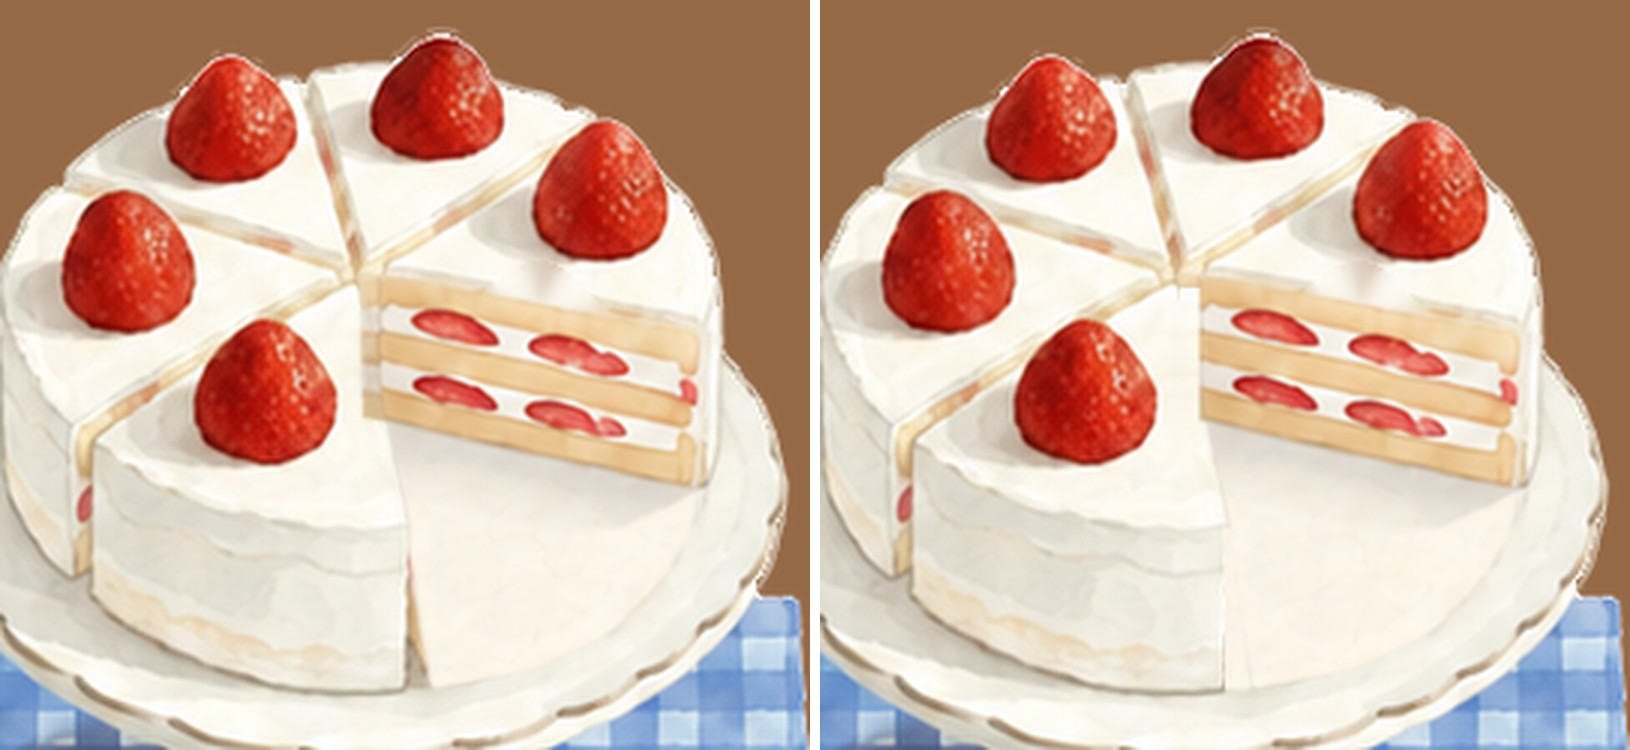
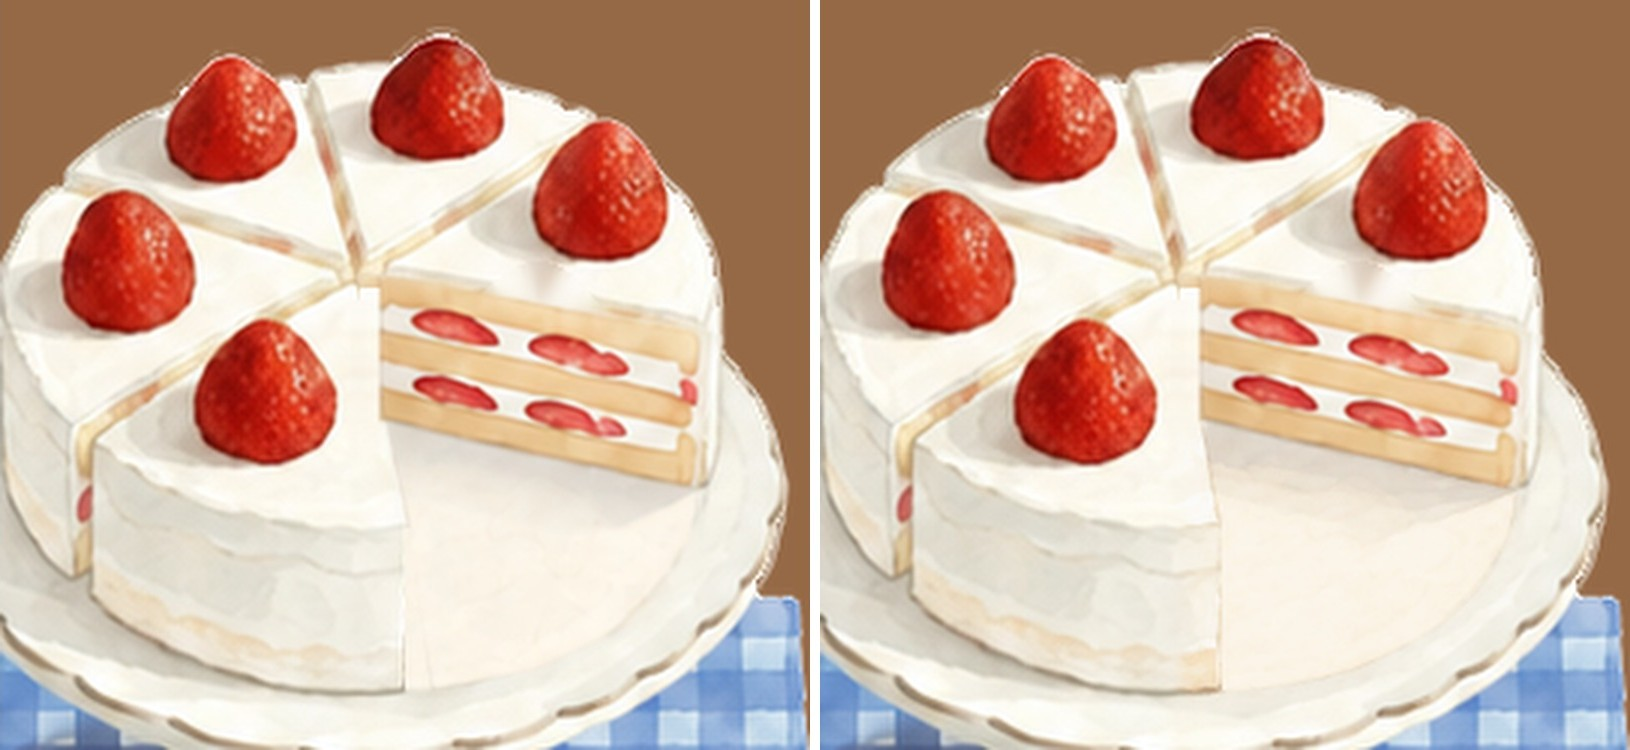
Shop buy panel on paper (owner's pick 3: cream card with tape, no lines, no title); serve receipt restyled (zigzag ends, dashed lines, no title); cake frame 2 repaired with ChatGPT's repaint of the empty space; report

diff --git a/Docs/tools/report_page/index.html b/Docs/tools/report_page/index.html
@@ -74,8 +74,7 @@ h3 small{font-weight:600;color:var(--soft);font-size:13px;margin-left:6px}
 <h2 id="next"><span class="n">1</span>Next</h2>
 <div class="grid">
 <div class="who p1"><h3>You</h3>
-<p><b>Test build 2026.11.19 (1) is in TestFlight.</b> After it came: the glass shop panel with tab design A, the new font, the cake fix, and the last Daily Treats change (approved). Say "build" for (2).</p>
-<p><b>Current:</b> pick a paper for the shop's buy panel.</p>
+<p><b>Test build 2026.11.19 (1) is in TestFlight.</b> After it came: the glass shop panel with tab design A, the new font, the paper buy panel, the new receipt, the cake repair, and the last Daily Treats change (approved). Say "build" for (2).</p>
 <p><b>Q&amp;A:</b> the journal's milestones.</p>
 <p><b>MVP:</b> pick a mixer (three like your photo, cuter).</p>
 </div>
@@ -139,22 +138,30 @@ h3 small{font-weight:600;color:var(--soft);font-size:13px;margin-left:6px}
 </div>
 
 <div class="card">
-<p style="margin-top:0"><b>The shop's buy panel on paper: four proposals.</b> Mock-ups on the real shop screen.</p>
-<figure><img src="shop_popup_paper.jpg" alt="Five versions of the shop's buy panel for Grandma. Now: the tall wooden board with white writing. 1: a brown kraft price tag with cut corners, a stitched edge and a red and white twine through its hole. 2: a white till receipt with zigzag ends, the cafe's name on top, dashed lines and a small barcode. 3: a cream recipe card with a red line and blue ruled lines, held by two strips of tape. 4: the Daily Treats card: cream paper with a mint checked band and a dotted line. Each shows the cookie, the name, the price in blue ink, the description, and the two cookie buttons"><figcaption>Left: today's wooden board. Then the four papers. The writing is brown ink in your new font; the price stays blue.</figcaption></figure>
+<p style="margin-top:0"><b>The shop's buy panel: your paper 3.</b> After build (1).</p>
+<figure><img src="buy_paper.jpg" alt="The shop's buy panel four times as a cream paper card held by two strips of tape, no lines and no title: Grandma, 380, She tips double; Extra cup with a two-line description; the red message Not enough points when the coins are short; Remove ads with its two sentences. Brown ink in the new font, the price in blue, the two cookie buttons at the bottom"><figcaption>Grandma; a two-line description; too few coins; Remove ads.</figcaption></figure>
 <ul>
-<li><b>1, price tag:</b> kraft paper on baker's twine, a stitched edge. The most "shop".</li>
-<li><b>2, receipt:</b> like the day's receipt you already have: zigzag ends, dashed lines.</li>
-<li><b>3, recipe card:</b> ruled card held by tape. The red word on top would be the kind of thing (food, help, kitchen, decor).</li>
-<li><b>4, mint card:</b> the same paper as Daily Treats.</li>
-<li>All four are shorter than the wooden board, so more of the shop stays in view.</li>
-<li>My pick: <b>1</b>. It says "for sale" by itself and looks different from the receipt and from Daily Treats.</li>
+<li>The cream card with two strips of tape. No title. I took "tables" to mean the ruled lines and removed them; tick below if you meant the tape.</li>
+<li>Brown ink, the price in blue ink; a little shorter than the wooden board was.</li>
 </ul>
 <ul class="checks">
-<li><label><input type="checkbox" data-id="cur.buypaper.1"> 1 Price tag</label></li>
-<li><label><input type="checkbox" data-id="cur.buypaper.2"> 2 Receipt</label></li>
-<li><label><input type="checkbox" data-id="cur.buypaper.3"> 3 Recipe card</label></li>
-<li><label><input type="checkbox" data-id="cur.buypaper.4"> 4 Mint card</label></li>
-<li><label><input type="checkbox" data-id="cur.buypaper.more"> More options (I will say what I like)</label></li>
+<li><label><input type="checkbox" data-id="cur.buycard.good"> Good</label></li>
+<li><label><input type="checkbox" data-id="cur.buycard.tape"> I meant the tape: remove it</label></li>
+<li><label><input type="checkbox" data-id="cur.buycard.change"> Changes (I will say what)</label></li>
+</ul>
+</div>
+
+<div class="card">
+<p style="margin-top:0"><b>The receipt, restyled like option 2.</b> After build (1).</p>
+<figure><img src="receipt_restyle.jpg" style="max-height:420px" alt="Left: the receipt as it was, white paper with scalloped ends, two thin lines and a barcode, the amount and the tips in the middle. Right: the new receipt in the game: zigzag ends, dashed lines, the amount and the tips in the middle, a barcode and a small THANK YOU under it; no title"><figcaption>Left: before. Right: now, in the game.</figcaption></figure>
+<ul>
+<li>Zigzag ends, dashed lines, a barcode with a small THANK YOU under it. No title, as you said. The amount and the tips are where they were, same size.</li>
+</ul>
+<ul class="checks">
+<li><label><input type="checkbox" data-id="cur.receipt2.good"> Good</label></li>
+<li><label><input type="checkbox" data-id="cur.receipt2.nothanks"> Remove THANK YOU too</label></li>
+<li><label><input type="checkbox" data-id="cur.receipt2.old"> Go back to the old receipt</label></li>
+<li><label><input type="checkbox" data-id="cur.receipt2.change"> Changes (I will say what)</label></li>
 </ul>
 </div>
 
@@ -173,15 +180,16 @@ h3 small{font-weight:600;color:var(--soft);font-size:13px;margin-left:6px}
 </div>
 
 <div class="card">
-<p style="margin-top:0"><b>Strawberry cake, frame 2: both places fixed.</b> After build (1).</p>
-<figure><img src="cake_frame2_fixed.jpg" alt="Frame 2 of the cake, enlarged, before and after. Before: a thin tan and red line down the left edge of the empty space and a pale strip at the left end of the cut face. After: the empty space's left edge is clean down to the plate, and the cut face ends at one clean edge"><figcaption>Left: before. Right: now.</figcaption></figure>
+<p style="margin-top:0"><b>Strawberry cake, frame 2: repaired again, with ChatGPT.</b> After build (1).</p>
+<figure><img src="cake_frame2_fixed.jpg" alt="Frame 2 of the cake, enlarged, twice. Left, this afternoon's fix: the empty space is a flat patch with a faint straight seam beside the front slice, whose edge is a hard vertical line. Right, now: the bare plate is one smooth surface with a soft shade under the cut face and beside the front slice, and the slice's edge runs naturally from the cake's middle down to the plate"><figcaption>Left: this afternoon's fix. Right: now.</figcaption></figure>
 <ul>
-<li><b>1:</b> the line down the left edge of the empty space is gone; the bare plate is there, as in the other frames.</li>
-<li><b>2:</b> the pale strip is gone; the cut face ends at one clean edge.</li>
+<li><b>What was still wrong:</b> a faint straight seam on the plate beside the front slice, and that slice's edge was a hard vertical line, like cut with scissors.</li>
+<li><b>Now:</b> ChatGPT repainted the frame; I took only its empty space (the bare plate with its soft shade, and the front slice's edge) and fitted it into the game's frame. Every slice, strawberry, the stand and the napkin are still the game's own pixels, so nothing jumps between frames.</li>
+<li>That was ChatGPT's last picture for today; the next is free tomorrow at 11:29.</li>
 </ul>
 <ul class="checks">
-<li><label><input type="checkbox" data-id="cur.cake5.good"> Good</label></li>
-<li><label><input type="checkbox" data-id="cur.cake5.more"> Still something (I will say)</label></li>
+<li><label><input type="checkbox" data-id="cur.cake6.good"> Good</label></li>
+<li><label><input type="checkbox" data-id="cur.cake6.more"> Still something (I will say)</label></li>
 </ul>
 </div>
 

diff --git a/Assets/Scripts/Shop/ShopManager.cs b/Assets/Scripts/Shop/ShopManager.cs
@@ -609,6 +609,7 @@ public class ShopManager : MonoBehaviour
     /// hundredths of an em, added to a line spacing) and HandTopFix (in em, times the font size, a shift down) keep
     /// every line where it was.
     public const string HandFontPath = "Fonts & Materials/Delius SDF";
+    private static readonly Color PaperInk = new Color(0.36f, 0.20f, 0.09f);   // brown ink on the paper panels
     public const float HandLineFix = 72f, HandTopFix = 0.42f;
     public float cardScale = 0.62f;
     private const int Columns = 3;
@@ -910,12 +911,28 @@ public class ShopManager : MonoBehaviour
             // under it. The hand is Delius since 19 November 2026 (see HandFontPath).
             var chalk = Resources.Load<TMP_FontAsset>(HandFontPath);
             if (chalk != null) popupItemInfo.font = chalk;
+            // On paper since 19 November 2026 (owner: "also use a paper style for shop item description panel"; their
+            // pick 3 of four, "remove the tables, remove the title text"): a cream card held by tape instead of the
+            // wooden board (Resources/UI/buy_card, Store/ui/shop_popup_paper_2026-11-19/build_card.py), a little shorter,
+            // the writing in brown ink, the price in blue ink. Without the picture the board and the chalk stay.
+            var cardArt = Resources.Load<Sprite>("UI/buy_card"); var onPaper = cardArt != null;
+            if (onPaper)
+            {
+                var boardImg = purchaseConfirmationPopup.GetComponent<Image>();
+                if (boardImg != null) { boardImg.sprite = cardArt; boardImg.type = Image.Type.Simple; boardImg.preserveAspect = false; }
+                ((RectTransform)purchaseConfirmationPopup.transform).sizeDelta = new Vector2(1100f, 1480f);
+                foreach (var b in new[] { confirmPurchaseButton, cancelPurchaseButton })
+                {
+                    var brt = b != null ? b.transform as RectTransform : null;
+                    if (brt != null) brt.anchoredPosition = new Vector2(brt.anchoredPosition.x, -585f);
+                }
+            }
             var lines = (item.popupInfoText ?? "").Split('\n');
             // the price line in blue chalk, for a price in stars as well (owner, 14 November 2026: the star card "use the same layout as the coins tab")
-            if (lines.Length > 0 && (lines[0].TrimStart().StartsWith("$") || TabOf(item) == ShopTab.Stars)) lines[0] = "<color=#9FD2FF>" + lines[0] + "</color>";
+            if (lines.Length > 0 && (lines[0].TrimStart().StartsWith("$") || TabOf(item) == ShopTab.Stars)) lines[0] = (onPaper ? "<color=#3A70B0>" : "<color=#9FD2FF>") + lines[0] + "</color>";
             var shown = DisplayName(item);                                                                    // the card's name on top (owner, 18 October: "why is it a big eater instead of chef")
             popupItemInfo.text = TextStars.Mark((shown != null ? shown + "\n" : "") + string.Join("\n", lines));   // a star picture where the text says [*]
-            popupItemInfo.color = Color.white;
+            popupItemInfo.color = onPaper ? PaperInk : Color.white;
             popupItemInfo.richText = true;
             popupItemInfo.fontSize = 70f; popupItemInfo.lineSpacing = -18f + HandLineFix; popupItemInfo.alignment = TextAlignmentOptions.Center;   // one size, tighter lines (owner, 18 October)
             popupItemInfo.fontStyle = FontStyles.Bold;
@@ -931,7 +948,7 @@ public class ShopManager : MonoBehaviour
             var mat = popupItemInfo.fontMaterial; if (mat != null && mat.HasProperty("_FaceDilate")) mat.SetFloat("_FaceDilate", 0.08f);
             var note = EnsureNoteLabel(chalk);
             var hasNote = note != null && !string.IsNullOrWhiteSpace(item.specialNote);
-            if (note != null) { note.text = item.specialNote ?? ""; note.gameObject.SetActive(hasNote); }
+            if (note != null) { note.text = item.specialNote ?? ""; note.gameObject.SetActive(hasNote); if (onPaper) note.color = new Color(0.22f, 0.50f, 0.32f); }   // green ink on the paper
             // fixed places (owner, 16 October): the price and a two-line description in one label, the one-line note
             // under it; every card's text was cut to fit, so nothing is measured and nothing can overlap
             var shift = 0f;

diff --git a/Assets/Scripts/Scoring/SimpleScorePopup.cs b/Assets/Scripts/Scoring/SimpleScorePopup.cs
@@ -262,6 +262,12 @@ public class SimpleScorePopup : MonoBehaviour
         }
         NextAtScreen = null;
 
+        // The receipt restyled as a till receipt (owner, 19 November 2026: "restyle the receipt card too ... improve our
+        // receipt using that style"; "don't put title text on receipt"): zigzag ends, dashed lines, no title (Resources/UI/receipt_paper, the same
+        // shape and paper place as the white receipt it replaces; Store/ui/receipt_2026-11-19/build.py)
+        var restyled = backgroundSprite != null ? Resources.Load<Sprite>("UI/receipt_paper") : null;
+        if (restyled != null) backgroundSprite = restyled;
+
         // Create BACKGROUND child (separate GameObject)
         if (backgroundSprite != null)
         {
